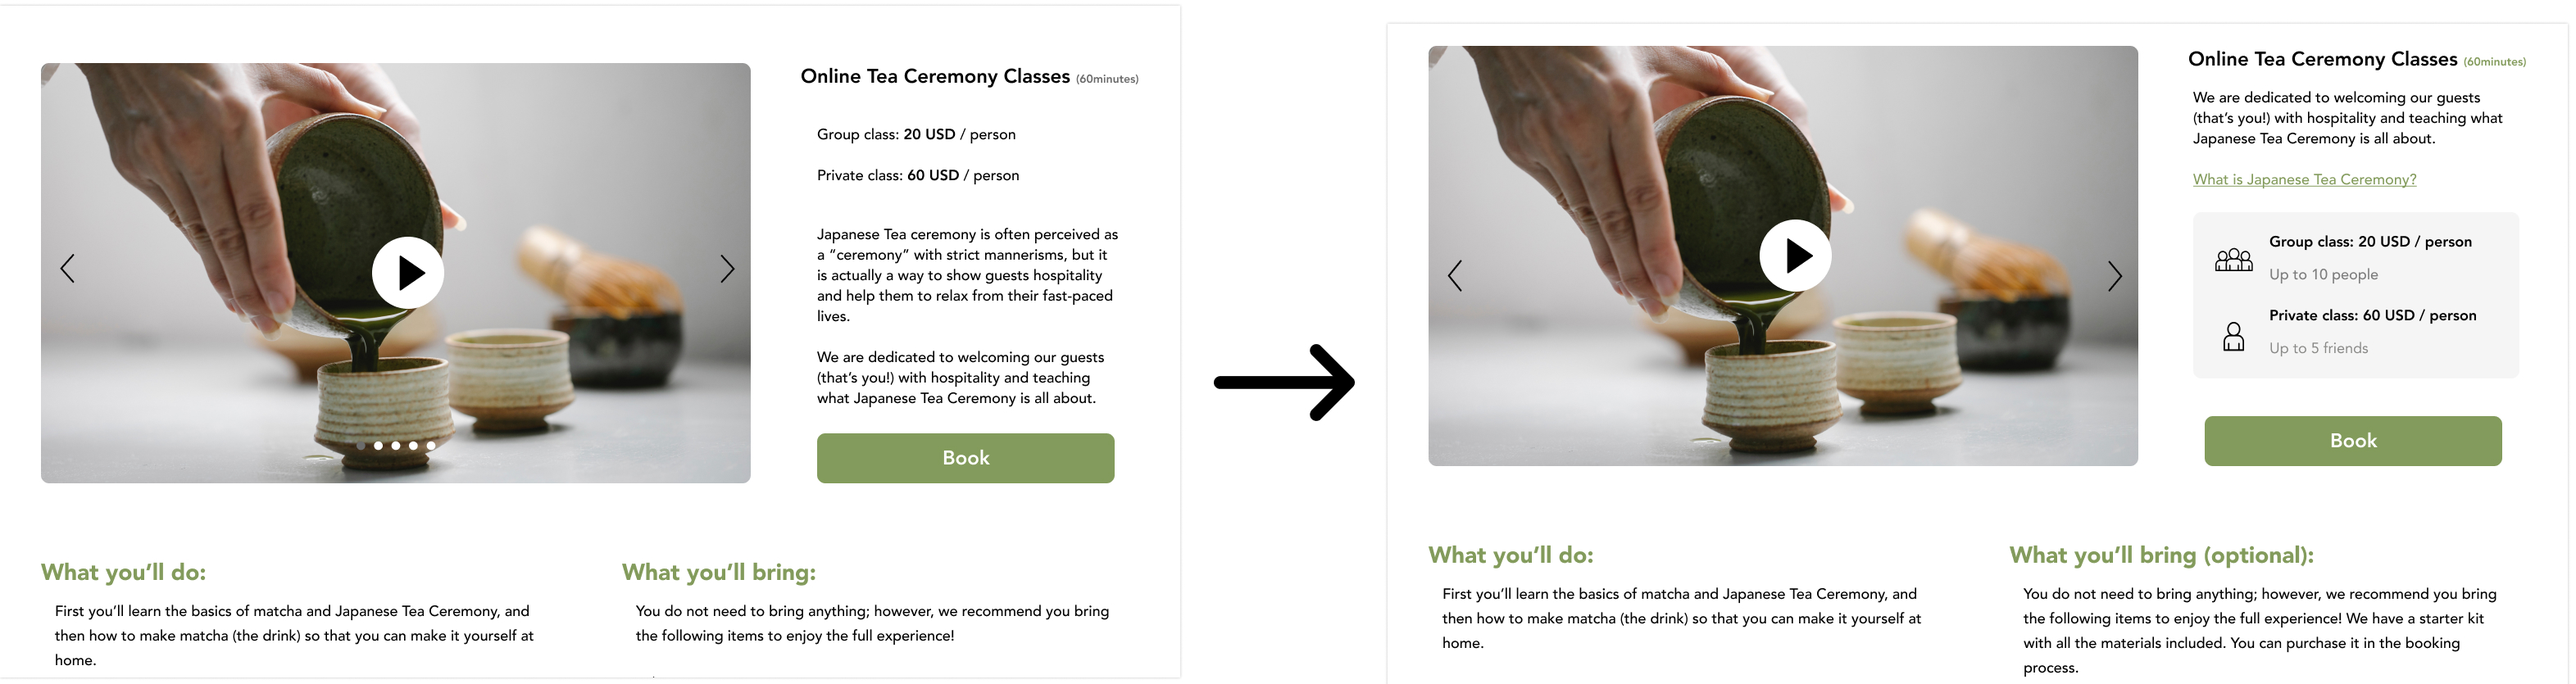
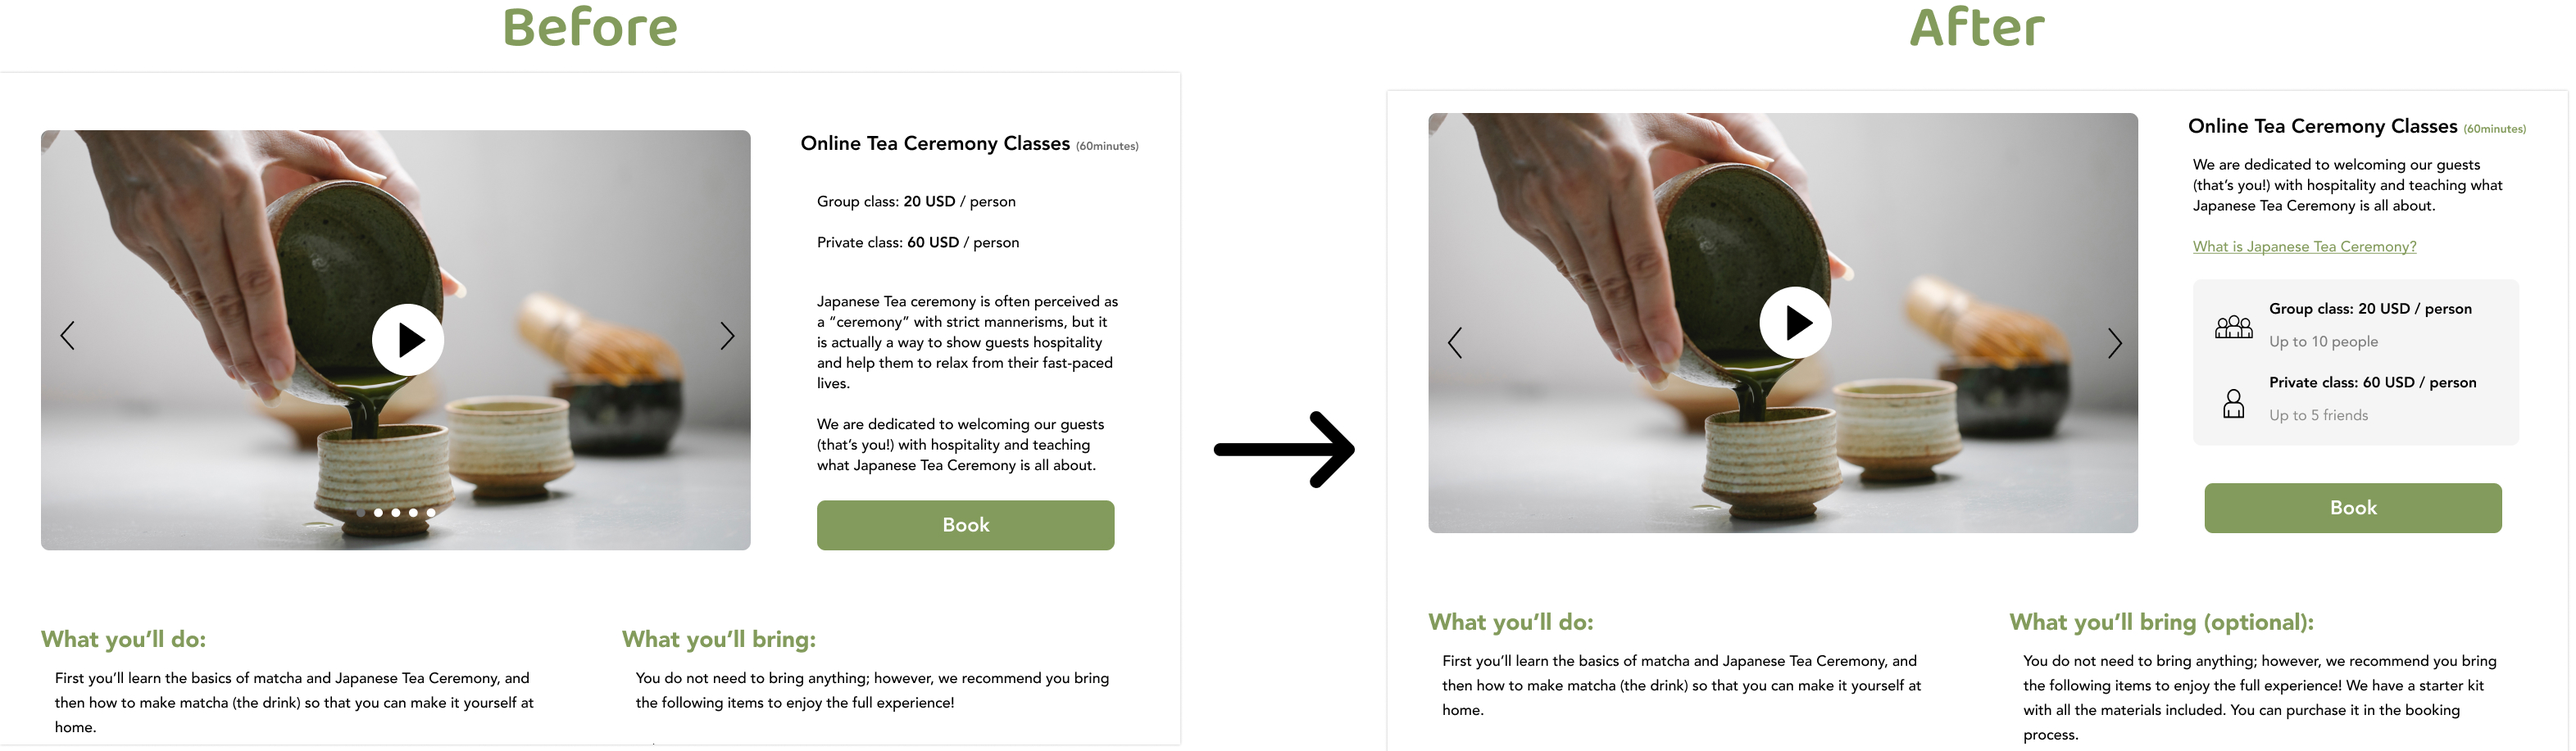
Iteration
– Changed images
– Updated hero image

diff --git a/all-about-matcha.html b/all-about-matcha.html
@@ -37,9 +37,18 @@
 
     <div class="hero-all-about-matcha">
 
+        <div class="matcha-hero">
+            <div>
+                <h1>All About Matcha</h1>
+                <h3>Delivering the Japanese Tea Ceremony experience to your home.</h3>
+            </div>
 
-        <h1 class="work-logo">All About Matcha</h1>
-        <img class="mirror-image" src="matcha-img/Matcha mock up.png" alt="All about matcha responsive website mock up screens">
+
+            <img class="matcha-hero-image" src="matcha-img/Matcha mock up.png"
+                alt="All about matcha responsive website mock up screens">
+        </div>
+
+
 
 
 
@@ -202,30 +211,39 @@
         about them.
 
         <a href=#img-wireframes class="lightbox-link">
-            <img class="mirror-content2" src="matcha-img/Wireflows.png" alt="Mirror, low-fi wireframes">
+            <img class="mirror-content2" src="matcha-img/Wireflows.jpg" alt="Mirror, low-fi wireframes">
         </a>
 
         <a href="#!" class="lightbox" id="img-wireframes">
-            <span style="background-image: url('matcha-img/Wireflows.png')"></span>
+            <span style="background-image: url('matcha-img/Wireflows.jpg')"></span>
         </a>
-        I had a lot of different pieces of information at first that made the main page look cluttered. 
-        I realized that the main page was losing the focus of what it was telling the users. 
-        I iterated on this several times and was able to streamline it. 
+        I had a lot of different pieces of information at first that made the main page look cluttered.
+        I realized that the main page was losing the focus of what it was telling the users.
+        I iterated on this several times and was able to streamline it.
+
         <img class="mirror-content2" src="matcha-img/Wireframes main.jpg" alt="Wireframes main page 3 iterations">
-        I first had two containers for private and group pages. 
-        However, I realized those two are almost the same except price and a few other information, so I combined them into just one section.
-        <img class="mirror-content2" src="matcha-img/Wireframes iteration class.jpg" alt="Wireframes class overview page 2 iterations">
+        I first had two containers for private and group pages.
+        However, I realized those two are almost the same except price and a few other information, so I combined them
+        into just one section.
+        <img class="mirror-content2" src="matcha-img/Wireframes iteration class.jpg"
+            alt="Wireframes class overview page 2 iterations">
 
 
 
         <p>Hi-Fidelity Responsive Design</p>
         I created hi-fidelity designs based on the wireframes. I decided to change the layout of the main page since it
         looked text-heavy.
-        At first, I tried to leave all the text since I thought it's important for the users to know what matcha is. I
-        was able to make is simpler at the end, and it looks eye-catching visually compared to the first iteration.
-        <img class="mirror-content2" src="matcha-img/hi-fi iterations.jpg" alt="hi-fi UI main page iteration">
+        At first, I tried to leave all the text since I thought it's important for the users to know what matcha is, but
+        I realized people wouldn't care and just skip the reading part if they are not interested. At the end, I made
+        the text much shorter and gave the users options to read more if they are interested.
+        I also tried hard not to make the website look too sophisticated since Japanese Tea Ceremony itself is already
+        too sophisticated to scare people away sometimes. To achieve that, I used friendly and soft colors rather than
+        black, which a lot of matcha businesses do. Yet the images leave the hint of sophistication which shows the
+        beauty of Japanese Tea Ceremony.
 
-        <img class="mirror-content2" src="matcha-img/hi-fi frames.jpg" alt="hi-fi UI">
+
+        <img class="mirror-content2" src="matcha-img/Responsive homepage.jpg" alt="hi-fi responsive screens">
+        <img class="mirror-content2" src="matcha-img/Hi-fi other pages.jpg" alt="hi-fi other screens">
     </div>
 
 
@@ -316,10 +334,13 @@
         </div>
     </div>
 
-<div class="content mirror-body">
-        <li>Assumptions could be correct or very wrong–it's important to make sure wether it's correct or not through research.</li>
-        <li>Having visuals, such as icons and images, make a big difference when the users navigate through the website. It also helps the users expect what they are without reading the text.</li>
-        <li>Having a lot of information doesn't always mean it's helping the users–it could result in making the users confused.</li>
+    <div class="content mirror-body">
+        <li>Assumptions could be correct or very wrong–it's important to make sure wether it's correct or not through
+            research.</li>
+        <li>Having visuals, such as icons and images, make a big difference when the users navigate through the website.
+            It also helps the users expect what they are without reading the text.</li>
+        <li>Having a lot of information doesn't always mean it's helping the users–it could result in making the users
+            confused.</li>
     </div>
 
 

diff --git a/styles.css b/styles.css
@@ -379,11 +379,20 @@ li {
 
 .hero-all-about-matcha {
     background: #839B5C;
+    padding: 2em 0 1em;
+}
+
+.matcha-hero {
+    max-width: 1200px;
     display: flex;
+    justify-content: space-between;
     align-items: center;
-    padding-top: 2em;
-    justify-content: center;
-    max-width: 100%;
+    margin: 0 auto;
+    color: #fff;
+}
+
+.matcha-hero-image {
+    max-width: 60%;
 }
 
 .hero-brightwheel {
